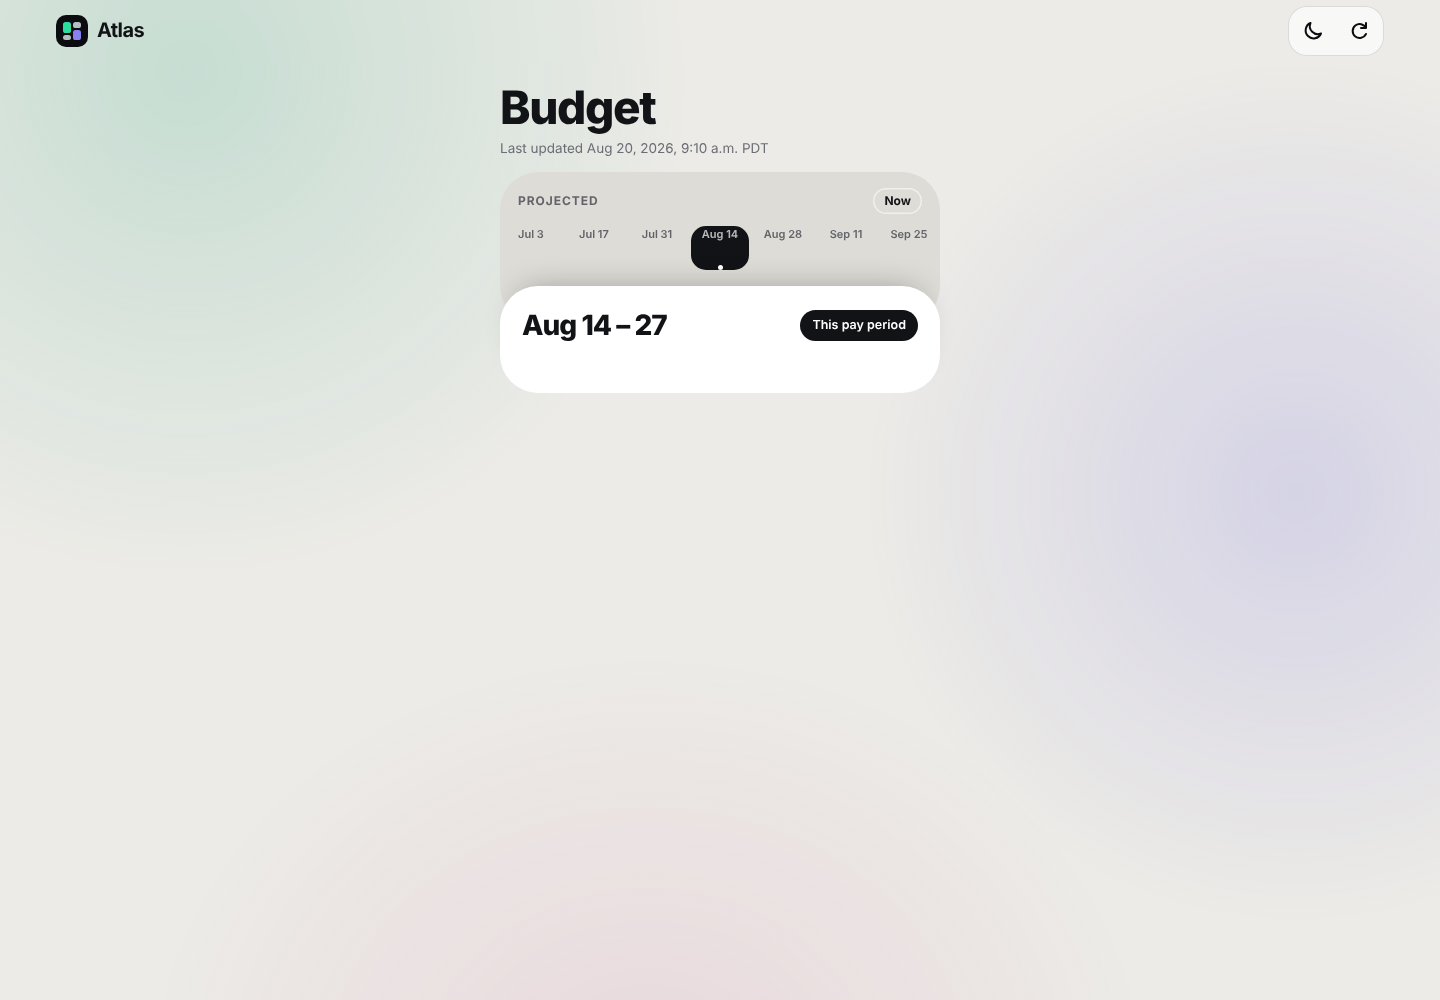
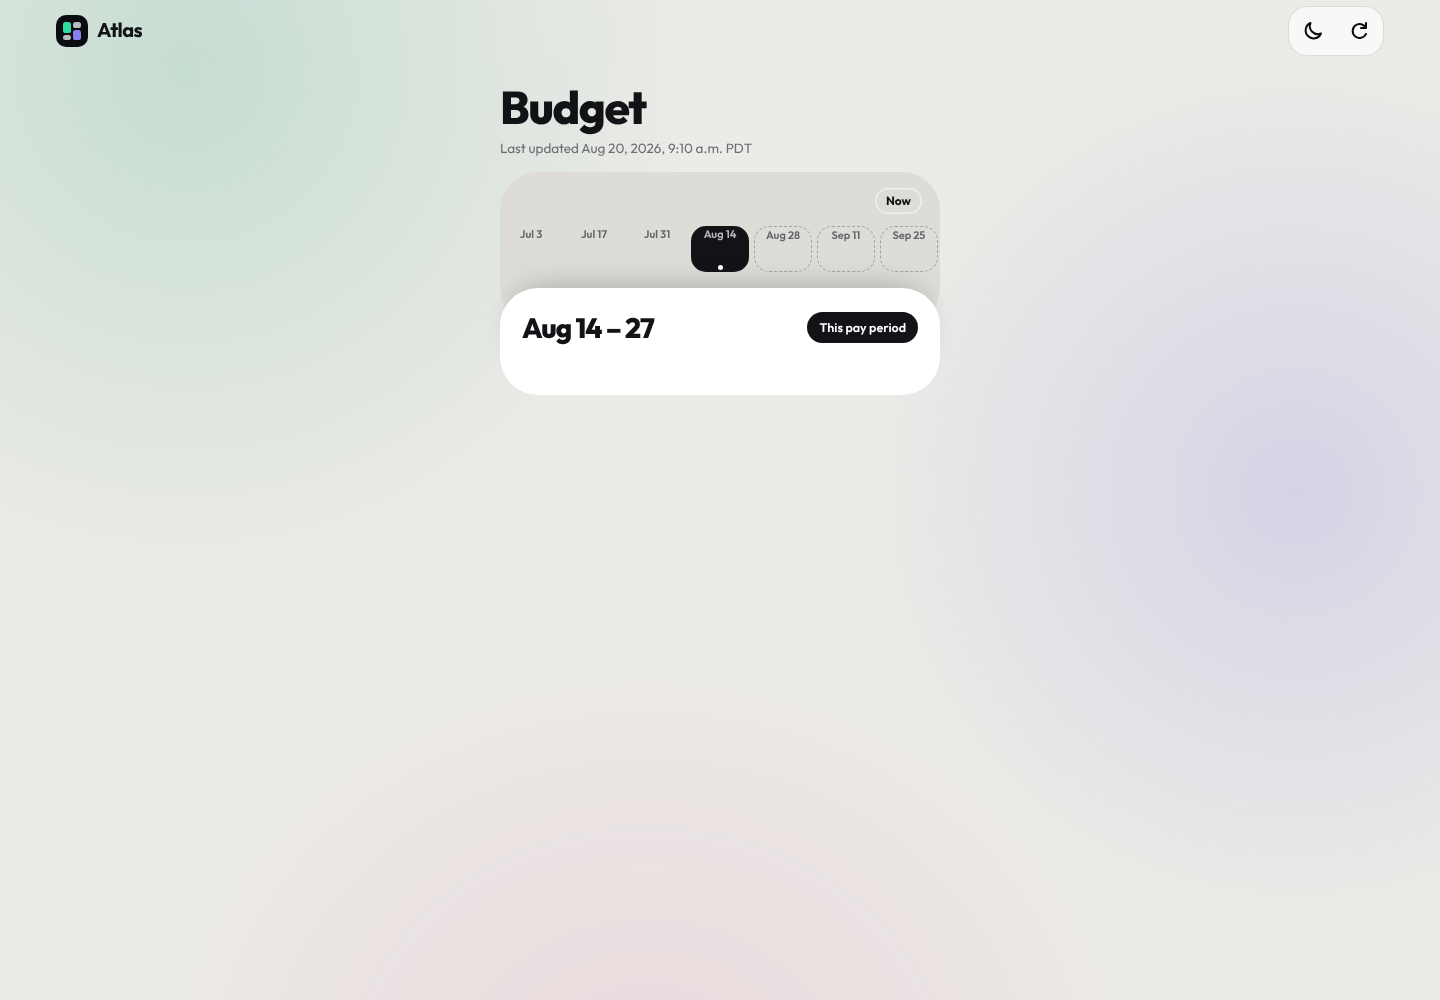
B1: no text labels; projected periods drawn dashed
Owner decision (Dale, 2026-11-19, relayed by the lead): no text labels.
The word "Projected" leaves the timeline and the period header. A
projected period, as Forecast publishes it (evidenceState 'projected'),
draws its chip with a dashed outline and softer value text; past and
current chips stay solid, the current chip keeps its marker.

Claude-Session: https://claude.ai/code/session_01B4JZczKoMaQZEssfxJayKS

diff --git a/public/stack.css b/public/stack.css
@@ -7,7 +7,7 @@ html.stack-view {
   --stack-bills: #c6c9ff; --stack-budget: #dff06e; --stack-cards: #b4ead3; --stack-save: #ffcfb3; --stack-mort: #f5bfe3;
   --stack-slab: #121316; --stack-slab-fg: #ffffff; --stack-slab-good: #dff06e; --stack-slab-bad: #ff9a8c;
   --stack-t-bg: #dddcd6; --stack-t-fg: #121316; --stack-t-muted: #63646b; --stack-t-chip: #f1f0ec;
-  --stack-t-sel: #121316; --stack-t-selfg: #ffffff; --stack-t-neg: #c8372d;
+  --stack-t-sel: #121316; --stack-t-selfg: #ffffff; --stack-t-neg: #c8372d; --stack-t-dash: #a3a39c;
   --stack-lift: 0 -16px 30px -20px rgba(18, 19, 22, .35);
   --stack-sans: "Outfit", ui-sans-serif, -apple-system, "Segoe UI", system-ui, sans-serif;
 }
@@ -15,14 +15,14 @@ html.stack-view {
   html.stack-view:not([data-theme="light"]) {
     --stack-bg: #0c0d10; --stack-panel: #17181d; --stack-ink: #f4f3ef; --stack-muted: #9a9ba3; --stack-wf: #f4f2ec;
     --stack-t-bg: #17181d; --stack-t-fg: #f4f3ef; --stack-t-muted: #9a9ba3; --stack-t-chip: #33353d;
-    --stack-t-sel: #dff06e; --stack-t-selfg: #121316; --stack-t-neg: #ff8477;
+    --stack-t-sel: #dff06e; --stack-t-selfg: #121316; --stack-t-neg: #ff8477; --stack-t-dash: #4a4d57;
     --stack-lift: 0 -18px 34px -18px rgba(0, 0, 0, .7);
   }
 }
 html.stack-view[data-theme="dark"] {
   --stack-bg: #0c0d10; --stack-panel: #17181d; --stack-ink: #f4f3ef; --stack-muted: #9a9ba3; --stack-wf: #f4f2ec;
   --stack-t-bg: #17181d; --stack-t-fg: #f4f3ef; --stack-t-muted: #9a9ba3; --stack-t-chip: #33353d;
-  --stack-t-sel: #dff06e; --stack-t-selfg: #121316; --stack-t-neg: #ff8477;
+  --stack-t-sel: #dff06e; --stack-t-selfg: #121316; --stack-t-neg: #ff8477; --stack-t-dash: #4a4d57;
   --stack-lift: 0 -18px 34px -18px rgba(0, 0, 0, .7);
 }
 
@@ -55,8 +55,7 @@ html.stack-view .stack-block:empty { display: none; }
 /* Block 1, the timeline. */
 html.stack-view .stack-tl { background: var(--stack-t-bg); color: var(--stack-t-fg); padding: 16px 12px 52px; }
 html.stack-view .stack-tl:last-child { padding-bottom: 16px; }
-html.stack-view .stack-tl-head { display: flex; justify-content: space-between; align-items: center; gap: 10px; padding: 0 6px 10px; }
-html.stack-view .stack-tl-word { font-size: 12px; font-weight: 700; letter-spacing: .08em; text-transform: uppercase; color: var(--stack-t-muted); }
+html.stack-view .stack-tl-head { display: flex; justify-content: flex-end; align-items: center; gap: 10px; padding: 0 6px 10px; }
 html.stack-view .stack-root .stack-now {
   font-size: 12px; font-weight: 700; color: var(--stack-t-fg); border-radius: 999px; padding: 4px 11px;
   box-shadow: inset 0 0 0 1.5px var(--stack-t-chip);
@@ -73,6 +72,11 @@ html.stack-view .stack-chip {
 }
 html.stack-view .stack-chip::after { content: ""; width: 5px; height: 5px; border-radius: 50%; margin-top: 3px; }
 html.stack-view .stack-chip.is-now::after { background: currentColor; }
+/* A projected period (Forecast's evidenceState 'projected'): dashed outline and softer value, no fill; no word. */
+html.stack-view .stack-chip.is-projected { background: transparent; border: 1.5px dashed var(--stack-t-dash); }
+html.stack-view .stack-chip.is-projected .stack-chip-value { opacity: .7; }
+html.stack-view .stack-chip.is-projected[aria-pressed="true"] { border-color: var(--stack-t-sel); }
+html.stack-view .stack-chip.is-projected[aria-pressed="true"] .stack-chip-value { opacity: 1; }
 html.stack-view .stack-chip-date { font-size: 11px; font-weight: 600; color: var(--stack-t-muted); white-space: nowrap; }
 html.stack-view .stack-chip-value {
   min-height: 1.3em; font-size: 13px; font-weight: 800; letter-spacing: -.02em;

diff --git a/test/browser-stack-shell.js b/test/browser-stack-shell.js
@@ -90,6 +90,8 @@ const settle = page => page.evaluate(() => new Promise(r => requestAnimationFram
           .every(el => getComputedStyle(el).display === 'none') && document.getElementById('stack-root').checkVisibility(),
         chips: chips.map(c => ({ key: c.dataset.stackPeriod, pressed: c.getAttribute('aria-pressed'),
           now: c.getAttribute('aria-current'), date: c.querySelector('.stack-chip-date').textContent,
+          projected: c.classList.contains('is-projected'),
+          dashed: getComputedStyle(c).borderTopStyle,
           amount: c.querySelector('[data-stack-chip-amount]').textContent })) };
     });
     const F = require('../public/forecast.js');
@@ -108,6 +110,13 @@ const settle = page => page.evaluate(() => new Promise(r => requestAnimationFram
     const dates = views.map(v => new Intl.DateTimeFormat('en-CA', { month: 'short', day: 'numeric', timeZone: 'UTC' })
       .format(new Date(v.start + 'T12:00:00Z')));
     ok(view.chips.every((c, i) => c.date === dates[i]), 'each chip shows its period start date');
+    ok(views.some(v => v.evidenceState === 'projected') && views.some(v => v.evidenceState !== 'projected')
+      && view.chips.every((c, i) => c.projected === (views[i].evidenceState === 'projected')
+        && (c.dashed === 'dashed') === (views[i].evidenceState === 'projected')),
+    'a projected view (evidenceState, as published) draws a dashed chip; historical and live views do not',
+    JSON.stringify(view.chips.map((c, i) => [views[i].evidenceState, c.projected, c.dashed])));
+    const words = await page.evaluate(() => document.getElementById('stack-root').textContent);
+    ok(!/Projected/i.test(words), 'no "Projected" word anywhere on the Stack page');
     const head = await page.evaluate(() => ({ range: document.querySelector('.stack-period-range').textContent,
       when: document.querySelector('[data-stack-period-when]').textContent }));
     const fmt = iso => new Intl.DateTimeFormat('en-CA', { month: 'short', day: 'numeric', timeZone: 'UTC' }).format(new Date(iso + 'T12:00:00Z'));
@@ -167,8 +176,8 @@ const settle = page => page.evaluate(() => new Promise(r => requestAnimationFram
       block: document.querySelector('[data-stack-block="waterfall"]').textContent }));
     const last = after.calls[after.calls.length - 1];
     const lastView = views[views.length - 1];
-    const when = await page.evaluate(() => document.querySelector('[data-stack-period-when]').textContent);
-    ok(when === (lastView.role === 'lookback' ? 'Past' : 'Projected'), 'a future period is headed "Projected"', when);
+    const when = await page.evaluate(() => document.querySelector('[data-stack-period-when]'));
+    ok(lastView.evidenceState === 'projected' && when === null, 'a projected period carries no when-label (no text labels)');
     ok(after.pressed.join() === target && last.key === target && after.block === 'test block ' + target,
       'tapping a chip selects it and the block renders for that period', JSON.stringify(after.pressed));
     ok(last.keys === 'Forecast,data,plan,recommendation,selectedPeriodKey' && last.sameRec && last.plan && last.forecast,

diff --git a/public/stack-shell.js b/public/stack-shell.js
@@ -80,19 +80,22 @@
     const chips = list.map(view => {
       const key = keyOf(view), amount = surplusOf(view), neg = amount != null && amount < 0;
       const current = view.role === 'active';
-      return `<button class="stack-chip${neg ? ' is-neg' : ''}${current ? ' is-now' : ''}" type="button"`
+      // Owner decision (Dale, 2026-11-19): no text labels. A projected period, as Forecast publishes it
+      // (evidenceState 'projected'), is drawn with a dashed outline; it is never inferred from dates here.
+      const projected = view.evidenceState === 'projected';
+      return `<button class="stack-chip${neg ? ' is-neg' : ''}${current ? ' is-now' : ''}${projected ? ' is-projected' : ''}" type="button"`
         + ` data-stack-period="${esc(key)}" aria-pressed="${key === state.selectedPeriodKey}"`
         + `${current ? ' aria-current="date"' : ''}>`
         + `<span class="stack-chip-date">${esc(dayLabel(view.start))}</span>`
         + `<span class="stack-chip-value${neg ? ' is-neg' : ''}" data-stack-chip-amount>${amount == null ? '' : esc(money(amount))}</span>`
         + '</button>';
     }).join('');
-    return '<div class="stack-tl-head"><span class="stack-tl-word">Projected</span>'
-      + '<button class="stack-now" type="button" data-stack-now>Now</button></div>'
+    return '<div class="stack-tl-head"><button class="stack-now" type="button" data-stack-now>Now</button></div>'
       + `<div class="stack-chips" data-stack-chips>${chips}</div>`;
   }
 
-  // The selected period's range and when-label (design: "This pay period", "Last pay period", "Past", "Projected").
+  // The selected period's range and when-label: "This pay period", "Last pay period" or "Past". A projected period
+  // carries no word (owner decision: no text labels); its chip's dashed outline says it.
   const rangeDate = new Intl.DateTimeFormat('en-CA', { month: 'short', day: 'numeric', timeZone: 'UTC' });
   function rangeLabel(view) {
     const ok = iso => typeof iso === 'string' && /^\d{4}-\d{2}-\d{2}$/.test(iso);
@@ -107,13 +110,14 @@
     if (view.role === 'active') return 'This pay period';
     const at = list.indexOf(view), now = list.findIndex(v => v.role === 'active');
     if (view.role === 'lookback') return now > 0 && at === now - 1 ? 'Last pay period' : 'Past';
-    return 'Projected';
+    return '';
   }
   function periodHeadHtml() {
     const list = views(), view = list.find(v => keyOf(v) === state.selectedPeriodKey);
     if (!view) return '';
+    const when = whenLabel(view, list);
     return `<h2 class="stack-period-range">${esc(rangeLabel(view))}</h2>`
-      + `<span class="stack-period-when" data-stack-period-when>${esc(whenLabel(view, list))}</span>`;
+      + (when ? `<span class="stack-period-when" data-stack-period-when>${esc(when)}</span>` : '');
   }
 
   function context() {

diff --git a/test/test-stack-shell.js b/test/test-stack-shell.js
@@ -104,4 +104,11 @@ console.log('5. L-001: no arithmetic on money in the shell');
     'no sum, rounding or arithmetic on a figure');
 }
 
+console.log('6. no text labels (owner decision, 2026-11-19)');
+{
+  const src = read('public/stack-shell.js').replace(/\/\*[\s\S]*?\*\//g, '').replace(/\/\/.*$/gm, '');
+  ok(!/Projected/.test(src) && /view\.evidenceState === 'projected'/.test(src),
+    'the shell prints no "Projected" word; a projected chip is marked from the published evidenceState');
+}
+
 console.log(`\nPASS Stack shell static checks (${checks})`);
